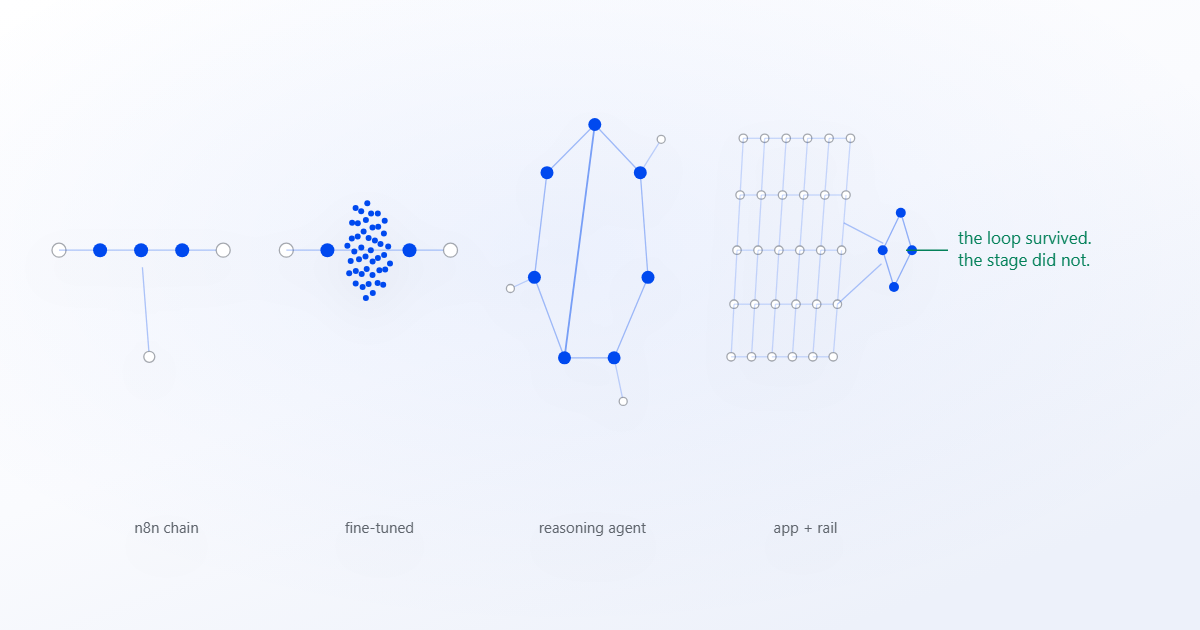
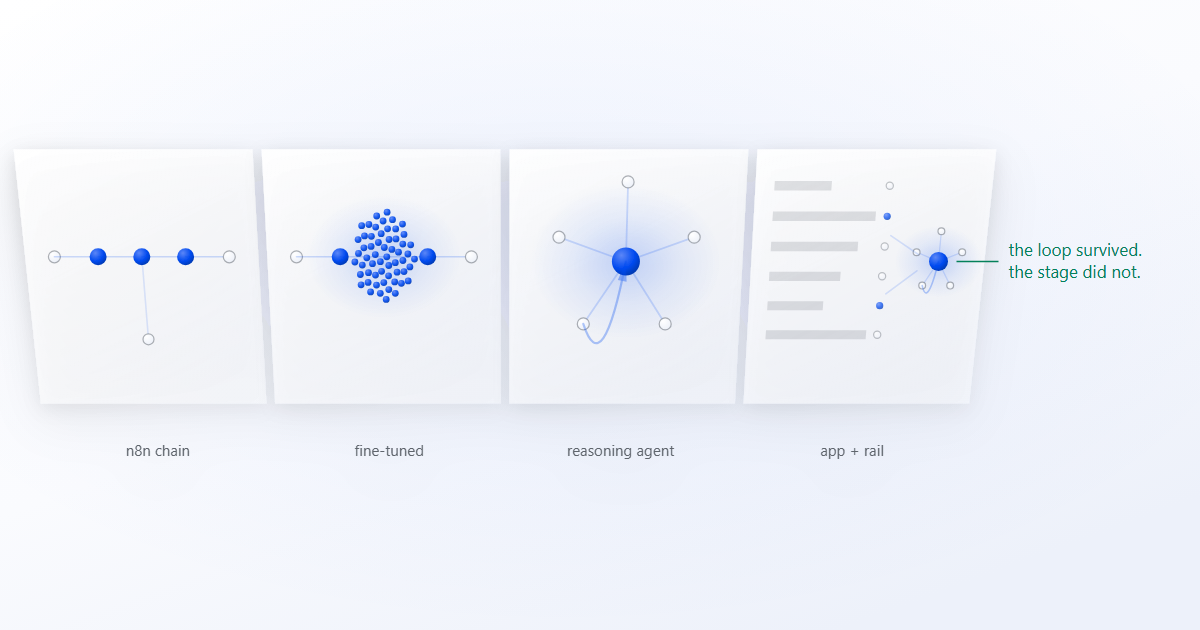
Give the archetypes a body, and get their shapes right
Two things were wrong with the topology cover. It was drawn in flat discs and
hairlines, which reads as a schematic rather than an illustration. And two of
the four shapes were not the shapes they claim to be.

A ReAct agent is not a ring of peers. Everything goes back through the model,
so it is a hub with tools around it and a return arc. An application is not a
lattice of equal cells, it is a list of records. Correcting both makes the last
panel contain a shrunk copy of the third, which is the point of the section it
illustrates: the loop survived and the stage did not.

The body comes from node fills lit from the upper left, a halo under the
regions where a model does the work, and a plate under each panel so four
shapes read as four objects. Blue area grows from three nodes to a haloed hub
and then collapses to a satellite, so the argument is carried by the drawing.

The wires were drawn with an objectBoundingBox gradient, which degenerates to
nothing on a vertical line and had quietly erased the retrieval edge. Flat
stroke with opacity is duller in isolation and correct in every direction.

diff --git a/scripts/make-seo-history-visuals.py b/scripts/make-seo-history-visuals.py
@@ -85,104 +85,181 @@ def loop_arc(p: Plane, u0, u1, v, height=0.075, delay=0.0, o=0.55):
 
 PANELS = ("n8n chain", "fine-tuned", "reasoning agent", "app + rail")
 
+PANELS = ("n8n chain", "fine-tuned", "reasoning agent", "app + rail")
+
+# Flat discs and hairlines read as a schematic. These give the marks a body:
+# a node is lit from the upper left, a model-heavy region carries a halo, and
+# each panel sits on a plate so the four shapes read as four objects rather
+# than one drawing with gaps in it.
+COVER_DEFS = f"""  <defs>
+    <radialGradient id="nb" cx="0.34" cy="0.28" r="0.92">
+      <stop offset="0" stop-color="#5b86f7"/>
+      <stop offset="0.52" stop-color="{BLUE}"/>
+      <stop offset="1" stop-color="#00308f"/>
+    </radialGradient>
+    <radialGradient id="nw" cx="0.34" cy="0.28" r="0.95">
+      <stop offset="0" stop-color="#ffffff"/>
+      <stop offset="1" stop-color="#e8edf7"/>
+    </radialGradient>
+    <radialGradient id="halo" cx="0.5" cy="0.5" r="0.5">
+      <stop offset="0" stop-color="{BLUE}" stop-opacity="0.20"/>
+      <stop offset="0.55" stop-color="{BLUE}" stop-opacity="0.07"/>
+      <stop offset="1" stop-color="{BLUE}" stop-opacity="0"/>
+    </radialGradient>
+    <linearGradient id="plate" x1="0.1" y1="0" x2="0.6" y2="1">
+      <stop offset="0" stop-color="#ffffff" stop-opacity="0.92"/>
+      <stop offset="1" stop-color="#ffffff" stop-opacity="0.34"/>
+    </linearGradient>
+    <linearGradient id="wire" x1="0" y1="0" x2="1" y2="0">
+      <stop offset="0" stop-color="{BLUE}" stop-opacity="0.12"/>
+      <stop offset="0.5" stop-color="{BLUE}" stop-opacity="0.42"/>
+      <stop offset="1" stop-color="{BLUE}" stop-opacity="0.12"/>
+    </linearGradient>
+    <filter id="soft" x="-40%" y="-40%" width="180%" height="180%">
+      <feDropShadow dx="0" dy="6" stdDeviation="9" flood-color="#0b1a3a" flood-opacity="0.13"/>
+    </filter>
+  </defs>
+"""
+
 
 def cover():
     """The four archetypes as the shapes they actually are.
 
-    A chain is a line. A fine-tune is that same line with one node swollen into
-    a mass, because it changed the model and not the shape. A reasoning agent
-    is a ring with a return chord and skills hanging off it. What shipped is a
-    lattice holding the state with a small ring attached at the side.
+    A chain is a directed line with the model riding on it. A fine-tune is that
+    same line with one node swollen into a cloud of weights, because it changed
+    the model and not the shape. A reasoning agent is a hub with tools around
+    it and a return arc, which is what a ReAct loop is and what a ring of peers
+    is not. What shipped is a list of records with that same hub shrunk to a
+    satellite beside it, so the last panel literally contains the third one.
 
-    Blue is where a model runs. It spreads from three nodes to a whole ring and
-    then collapses to a satellite, which is the argument of the post drawn as
-    area rather than stated.
+    Blue is where a model runs. It grows from three nodes to a hub with a halo
+    and then collapses to a satellite, so the argument of the post is carried
+    as area rather than asserted in a caption.
 
     Every position is a formula or a literal. No random draws: a rebuild has to
     reproduce the image or it becomes a silent redesign.
     """
-    p = Plane(486, 296, 900, 560, umax=4, vmax=1)
+    p = Plane(505, 296, 960, 384, umax=4, vmax=1)
     m = []
 
     def q(j, lx, ly):
-        """Local panel coordinates into plane coordinates."""
-        return j + 0.07 + lx * 0.86, 0.10 + ly * 0.72
+        return j + 0.07 + lx * 0.86, 0.09 + ly * 0.72
 
-    def node_at(j, lx, ly, r=6.5, model=False, d=0.0):
-        u, v = q(j, lx, ly)
-        return dot(p, u, v, r, BLUE if model else "#ffffff", 1.0, d,
-                   cls="pop") + ("" if model else
-                                 f'<circle class="pop" cx="{p(u, v)[0]:.1f}" '
-                                 f'cy="{p(u, v)[1]:.1f}" r="{r}" fill="none" '
-                                 f'stroke="{MUTED}" stroke-width="1.3" '
-                                 f'style="--o:0.55;animation-delay:{d:.2f}s"/>')
+    def xy(j, lx, ly):
+        return p(*q(j, lx, ly))
 
-    def edge(j, a, b, d=0.0, o=0.30, w=1.3):
-        return connect(p, q(j, *a), q(j, *b), o, d, w)
+    def orb(j, lx, ly, r=7.0, model=False, d=0.0, o=1.0):
+        """A node with a body. Lit from the upper left so it sits on the page."""
+        x, y = xy(j, lx, ly)
+        fill = "url(#nb)" if model else "url(#nw)"
+        ring = "" if model else (f'<circle cx="{x:.1f}" cy="{y:.1f}" r="{r}" fill="none" '
+                                 f'stroke="{MUTED}" stroke-width="1.2" opacity="0.5"/>')
+        return (f'<g class="pop" style="--o:{o};animation-delay:{d:.2f}s">'
+                f'<circle cx="{x:.1f}" cy="{y:.1f}" r="{r}" fill="{fill}"/>{ring}</g>')
 
-    # 1. A line. Five steps, three of them a model, one retrieval hanging under
-    #    the middle of it.
-    chain = [0.06, 0.27, 0.48, 0.69, 0.90]
+    def wire(j, a, b, d=0.0, o=0.5, w=1.6):
+        x0, y0 = xy(j, *a)
+        x1, y1 = xy(j, *b)
+        return (f'<line class="c" x1="{x0:.1f}" y1="{y0:.1f}" x2="{x1:.1f}" y2="{y1:.1f}" '
+                f'stroke="{BLUE}" stroke-opacity="0.34" stroke-width="{w}" stroke-linecap="round" '
+                f'style="--o:{o};animation-delay:{d:.2f}s"/>')
+
+    def halo(j, lx, ly, rx, ry, d=0.0):
+        x, y = xy(j, lx, ly)
+        return (f'<ellipse class="c" cx="{x:.1f}" cy="{y:.1f}" rx="{rx}" ry="{ry}" '
+                f'fill="url(#halo)" style="--o:1;animation-delay:{d:.2f}s"/>')
+
+    def plate(j, d=0.0):
+        pts = " ".join(f"{x:.1f},{y:.1f}" for x, y in
+                       (xy(j, -0.06, -0.05), xy(j, 1.06, -0.05),
+                        xy(j, 1.06, 1.05), xy(j, -0.06, 1.05)))
+        return (f'<polygon class="rise" points="{pts}" fill="url(#plate)" '
+                f'filter="url(#soft)" style="--o:1;animation-delay:{d:.2f}s"/>')
+
+    def ret_arc(j, a, b, bulge, d=0.0, o=0.55, w=2.2):
+        """The return edge, drawn round the outside so the cycle is visible."""
+        x0, y0 = xy(j, *a)
+        x1, y1 = xy(j, *b)
+        cx, cy = xy(j, (a[0] + b[0]) / 2, (a[1] + b[1]) / 2 - bulge)
+        hx, hy = x1 - (x1 - cx) * 0.16, y1 - (y1 - cy) * 0.16
+        nx, ny = -(y1 - hy), (x1 - hx)
+        n = max((nx * nx + ny * ny) ** 0.5, 1e-6)
+        nx, ny = nx / n * 4.5, ny / n * 4.5
+        return (f'<g class="c" style="--o:{o};animation-delay:{d:.2f}s">'
+                f'<path d="M{x0:.1f} {y0:.1f} Q{cx:.1f} {cy:.1f} {x1:.1f} {y1:.1f}" '
+                f'fill="none" stroke="{BLUE}" stroke-width="{w}" opacity="0.55" '
+                f'stroke-linecap="round"/>'
+                f'<polygon points="{x1:.1f},{y1:.1f} {hx + nx:.1f},{hy + ny:.1f} '
+                f'{hx - nx:.1f},{hy - ny:.1f}" fill="{BLUE}" opacity="0.65"/></g>')
+
+    for j in range(4):
+        m.append(plate(j, 0.30 * j))
+
+    # 1. A line. The model rides on a frame code laid down, and retrieval hangs
+    #    off the middle of it.
+    chain = [0.08, 0.29, 0.50, 0.71, 0.92]
     for i, lx in enumerate(chain):
         if i:
-            m.append(edge(0, (chain[i - 1], 0.42), (lx, 0.42), 0.05 * i))
-        m.append(node_at(0, lx, 0.42, 7.0, i in (1, 2, 3), 0.05 * i))
-    m.append(edge(0, (0.48, 0.74), (0.48, 0.47), 0.30))
-    m.append(node_at(0, 0.48, 0.74, 5.5, False, 0.32))
+            m.append(wire(0, (chain[i - 1], 0.40), (lx, 0.40), 0.05 * i, 0.55))
+        model = i in (1, 2, 3)
+        m.append(orb(0, lx, 0.40, 8.5 if model else 6.0, model, 0.05 * i))
+    m.append(wire(0, (0.50, 0.76), (0.50, 0.44), 0.28, 0.35))
+    m.append(orb(0, 0.50, 0.76, 5.5, False, 0.30))
 
-    # 2. The same line. One node became a mass of weights.
+    # 2. The same line. One node became a cloud of weights.
+    m.append(halo(1, 0.50, 0.40, 78, 62, 0.42))
     for i, lx in enumerate(chain):
         if i:
-            m.append(edge(1, (chain[i - 1], 0.42), (lx, 0.42), 0.34 + 0.04 * i))
+            m.append(wire(1, (chain[i - 1], 0.40), (lx, 0.40), 0.34 + 0.03 * i, 0.55))
         if i != 2:
-            m.append(node_at(1, lx, 0.42, 7.0, i in (1, 3), 0.34 + 0.04 * i))
-    for k in range(44):
-        a = 2.399963 * k                     # golden angle, a deterministic disc
-        rr = 0.115 * math.sqrt((k + 0.5) / 44)
-        m.append(node_at(1, 0.48 + rr * math.cos(a), 0.42 + rr * 1.30 * math.sin(a),
-                         3.0, True, 0.50 + 0.006 * k))
+            m.append(orb(1, lx, 0.40, 8.5 if i in (1, 3) else 6.0, i in (1, 3),
+                         0.34 + 0.03 * i))
+    for k in range(58):
+        a = 2.399963 * k                       # golden angle: a deterministic disc
+        rr = 0.150 * math.sqrt((k + 0.5) / 58)
+        m.append(orb(1, 0.50 + rr * math.cos(a), 0.40 + rr * 1.28 * math.sin(a),
+                     3.4, True, 0.48 + 0.005 * k, 0.92))
 
-    # 3. A ring, the return chord that makes it an agent, and skills radiating.
-    ring = [(0.46 + 0.30 * math.cos(2 * math.pi * k / 7 - math.pi / 2),
-             0.42 + 0.28 * 1.28 * math.sin(2 * math.pi * k / 7 - math.pi / 2))
-            for k in range(7)]
-    for k in range(7):
-        m.append(edge(2, ring[k], ring[(k + 1) % 7], 0.62 + 0.03 * k, 0.34))
-    m.append(edge(2, ring[4], ring[0], 0.86, 0.5, 1.8))
-    for k, pt in enumerate(ring):
-        m.append(node_at(2, pt[0], pt[1], 6.5, True, 0.62 + 0.03 * k))
-    for k in (1, 3, 5):
-        sx = 0.46 + 1.42 * (ring[k][0] - 0.46)
-        sy = 0.42 + 1.42 * (ring[k][1] - 0.42)
-        m.append(edge(2, ring[k], (sx, sy), 0.90, 0.22))
-        m.append(node_at(2, sx, sy, 4.0, False, 0.92))
+    # 3. A hub with tools around it and a return arc. A ReAct loop is not a ring
+    #    of peers: everything goes back through the model.
+    m.append(halo(2, 0.50, 0.42, 96, 78, 0.62))
+    tools = [(0.50 + 0.34 * math.cos(2 * math.pi * k / 5 - math.pi / 2),
+              0.42 + 0.30 * 1.12 * math.sin(2 * math.pi * k / 5 - math.pi / 2))
+             for k in range(5)]
+    for k, t in enumerate(tools):
+        m.append(wire(2, (0.50, 0.42), t, 0.66 + 0.03 * k, 0.5, 1.8))
+    for k, t in enumerate(tools):
+        m.append(orb(2, t[0], t[1], 6.0, False, 0.68 + 0.03 * k))
+    m.append(orb(2, 0.50, 0.42, 14.0, True, 0.64))
+    m.append(ret_arc(2, tools[3], (0.50, 0.42), -0.40, 0.86))
 
-    # 4. A lattice holding the state, with what is left of the loop beside it.
-    for r in range(5):
-        for c in range(6):
-            lx, ly = 0.04 + c * 0.107, 0.10 + r * 0.16
-            if c:
-                m.append(edge(3, (lx - 0.107, ly), (lx, ly), 1.00, 0.18))
-            if r:
-                m.append(edge(3, (lx, ly - 0.16), (lx, ly), 1.00, 0.18))
-            m.append(node_at(3, lx, ly, 4.2, False, 1.00 + 0.012 * (r * 6 + c)))
-    small = [(0.86 + 0.075 * math.cos(2 * math.pi * k / 4 - math.pi / 2),
-              0.42 + 0.085 * 1.28 * math.sin(2 * math.pi * k / 4 - math.pi / 2))
-             for k in range(4)]
-    for k in range(4):
-        m.append(edge(3, small[k], small[(k + 1) % 4], 1.20, 0.40))
-        m.append(node_at(3, small[k], small[k], 5.0, True, 1.20 + 0.02 * k)
-                 if False else node_at(3, small[k][0], small[k][1], 5.0, True, 1.20 + 0.02 * k))
-    m.append(edge(3, (0.575, 0.34), (0.785, 0.40), 1.30, 0.30))
-    m.append(edge(3, (0.785, 0.46), (0.575, 0.58), 1.32, 0.30))
+    # 4. Records, and that same hub shrunk to a satellite beside them.
+    for r in range(6):
+        ly = 0.10 + r * 0.128
+        m.append(slab(p, *q(3, 0.03, ly - 0.020), *q(3, 0.30 + 0.22 * ((r * 3) % 4) / 3.0,
+                                                     ly + 0.020),
+                      MUTED, 0.19, 1.00 + 0.04 * r, cls="rise"))
+        m.append(orb(3, 0.575, ly, 3.6, r in (1, 4), 1.02 + 0.04 * r, 0.75))
+    m.append(halo(3, 0.84, 0.42, 44, 36, 1.28))
+    sat = [(0.84 + 0.115 * math.cos(2 * math.pi * k / 5 - math.pi / 2),
+            0.42 + 0.115 * 1.12 * math.sin(2 * math.pi * k / 5 - math.pi / 2))
+           for k in range(5)]
+    for k, t in enumerate(sat):
+        m.append(wire(3, (0.84, 0.42), t, 1.30 + 0.02 * k, 0.42, 1.3))
+        m.append(orb(3, t[0], t[1], 3.4, False, 1.32 + 0.02 * k))
+    m.append(orb(3, 0.84, 0.42, 9.5, True, 1.28))
+    m.append(ret_arc(3, sat[3], (0.84, 0.42), -0.15, 1.42, 0.5, 1.5))
+    m.append(wire(3, (0.60, 0.31), (0.74, 0.39), 1.36, 0.4))
+    m.append(wire(3, (0.74, 0.46), (0.60, 0.56), 1.38, 0.4))
 
     for j, label in enumerate(PANELS):
         u, _ = q(j, 0.5, 0)
-        m.append(text(p, u, 1.04, label, 15, MUTED))
+        m.append(text(p, u, 1.02, label, 15, MUTED))
 
-    ax, ay = p(*q(3, 0.945, 0.42))
-    return wrap(lifted("".join(m))
+    ax, ay = xy(3, 0.965, 0.42)
+    return wrap(COVER_DEFS + lifted("".join(m))
                 + note(ax + 34, ay, ["the loop survived.", "the stage did not."]))
+
 
 
 # ----------------------------------------------------------------- slide 1
